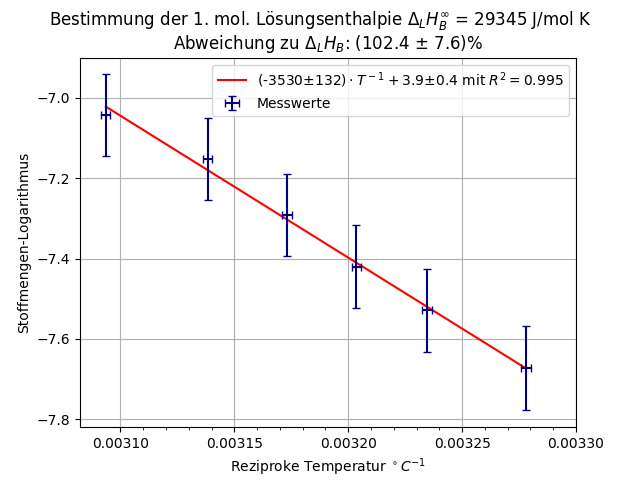
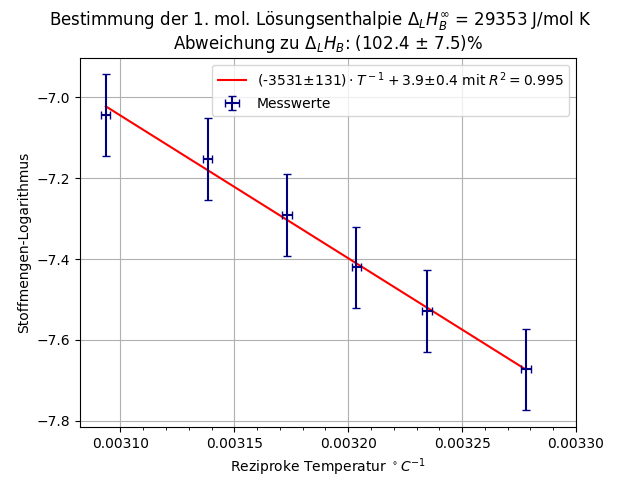
modified:   "L\303\266sungen.py" 	modified:   PDF/WS2425/Wasser A1 Benzoe.pdf 	modified:   PDF/WS2425/Wasser A1 Salicyl.pdf 	modified:   PNG/WS2425/Wasser A1 Benzoe.png 	modified:   PNG/WS2425/Wasser A1 Salicyl.png

diff --git a/Lösungen.py b/Lösungen.py
@@ -23,11 +23,11 @@ def lin(Para, x):
 # Ausrechnung der wässrigen Lösungen
 def Auswertung(Gruppe, Stoff):
     C = 0.1                                                             # Molarität M = mol/L
-    C_Error = 0.01                                                      # M
+    C_Error = 0.01                                                      # M     (geraten)*
     T_Data = np.array(Data[f'T({Gruppe}_{Stoff[:1]})'].values)+273.15   # K
     V_Data = np.array(Data[f'V({Gruppe}_{Stoff[:1]})'].values)          # mL
-    T_Error = np.array([0.2]*len(T_Data))                               # K
-    V_Error = np.array([0.2]*len(V_Data))                               # mL
+    T_Error = np.array([0.2]*len(T_Data))                               # K     (geraten)*
+    V_Error = np.array([0.1]*len(V_Data))                               # mL    (gemessen)
     n_B = 1e-4*V_Data                                                   # mol
     n_B_Error = np.sqrt((1e-3*V_Data*C_Error)**2+(1e-3*V_Error*C)**2)   # mol
     n_A = 1.387                                                         # mol
